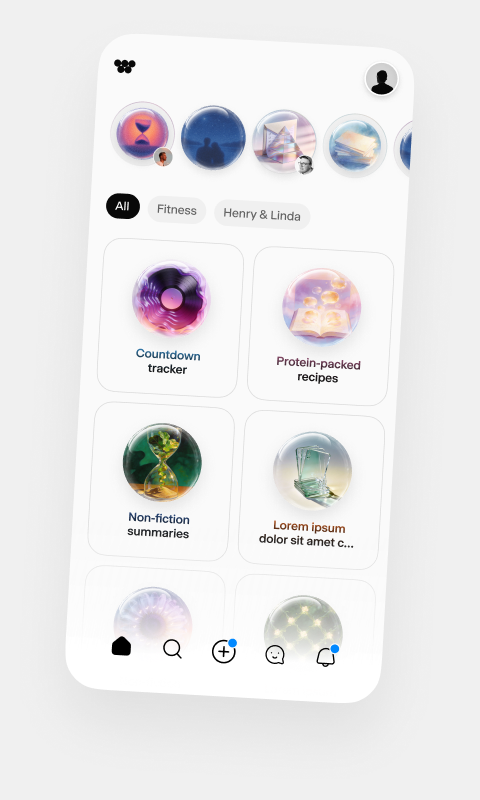
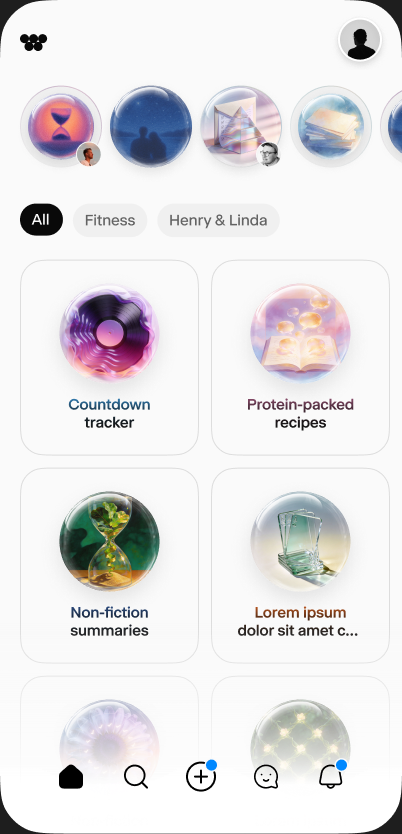
New phone hero (33:7514), joystick in footer-left overflowing top, lever drops 5-7 fresh orbs on physics toggle

diff --git a/src/App.tsx b/src/App.tsx
@@ -848,7 +848,7 @@ function App() {
 
             // Ellipse sized to wrap the centered phone, capped to viewport
             const phoneH = Math.max(380, Math.min(680, window.innerHeight * 0.62));
-            const phoneW = phoneH * (480 / 800);
+            const phoneW = phoneH * (402 / 834);
             const minR = Math.max(phoneW / 2, phoneH / 2.6) + 90;
             const maxR = Math.min(window.innerWidth, window.innerHeight) * 0.5;
             const baseR = Math.min(minR, maxR);
@@ -900,7 +900,7 @@ function App() {
               const a = animData as any;
               // Orbit radius wraps around the phone in the center, capped to viewport
               const phoneH = Math.max(380, Math.min(680, window.innerHeight * 0.62));
-              const phoneW = phoneH * (480 / 800);
+              const phoneW = phoneH * (402 / 834);
               const orbitMin = Math.min(
                 Math.max(phoneW / 2, phoneH / 2.6) + 80,
                 Math.min(window.innerWidth, window.innerHeight) * 0.4,
@@ -2021,7 +2021,19 @@ function App() {
       {!showcaseMode && (
         <Joystick
           pulled={displayMode === 'physics'}
-          onToggle={() => setMode(displayMode === 'physics' ? 'cyclone' : 'physics')}
+          onToggle={() => {
+            const goingToPhysics = displayMode !== 'physics';
+            setMode(goingToPhysics ? 'physics' : 'cyclone');
+            // When the lever drops the orbs, also rain a few fresh ones from above
+            if (goingToPhysics) {
+              const newOrbCount = 5 + Math.floor(Math.random() * 3); // 5-7
+              for (let i = 0; i < newOrbCount; i++) {
+                const delay = i * 90 + Math.random() * 80;
+                const x = window.innerWidth * (0.12 + Math.random() * 0.76);
+                setTimeout(() => addOrb(x), delay);
+              }
+            }
+          }}
         />
       )}
 

diff --git a/src/components/Joystick.tsx b/src/components/Joystick.tsx
@@ -67,22 +67,22 @@ export default function Joystick({ pulled, onToggle }: JoystickProps) {
       title={pulled ? 'Restore orbital formation' : 'Drop orbs'}
       onClick={handle}
       style={{
-        position: 'absolute',
-        bottom: 'clamp(64px, 9vh, 100px)',
+        position: 'fixed',
+        bottom: 6,
         left: 'clamp(16px, 2.5vw, 40px)',
-        width: 100,
-        height: 100,
+        width: 110,
+        height: 110,
         padding: 0,
         border: 0,
         background: 'transparent',
         cursor: 'pointer',
-        zIndex: 30,
+        zIndex: 80,
         outline: 'none',
         userSelect: 'none',
-        transition: 'transform 0.2s ease, filter 0.2s ease',
-        filter: 'drop-shadow(0 8px 14px rgba(0,0,0,0.18))',
+        transition: 'transform 0.25s cubic-bezier(0.22, 1, 0.36, 1), filter 0.25s ease',
+        filter: 'drop-shadow(0 10px 18px rgba(0,0,0,0.22))',
       }}
-      onMouseEnter={(e) => { e.currentTarget.style.transform = 'scale(1.06)'; }}
+      onMouseEnter={(e) => { e.currentTarget.style.transform = 'scale(1.12)'; }}
       onMouseLeave={(e) => { e.currentTarget.style.transform = 'scale(1)'; }}
     >
       <img

diff --git a/src/components/Footer.tsx b/src/components/Footer.tsx
@@ -1,6 +1,3 @@
-import { WabiWordmark } from './WabiLogo';
-
-const COLOR_DARK = '#191919';
 const COLOR_GRAY = '#6b7280';
 
 const socialIcon = (href: string, label: string, d: string) => (
@@ -94,9 +91,10 @@ export default function Footer() {
         }
       `}</style>
       <footer className="orb-footer">
-        <div style={{ display: 'flex', alignItems: 'center' }}>
-          <WabiWordmark style={{ color: COLOR_DARK }} />
-        </div>
+        {/* Left slot is reserved for the joystick (rendered outside the Footer
+            so it can overflow the top edge). Keep an empty spacer here for
+            flex balance. */}
+        <div style={{ width: 110, flexShrink: 0 }} aria-hidden="true" />
 
         <div className="orb-footer-links">
           <a href="https://wabi.ai/news" target="_blank" rel="noopener noreferrer">News</a>